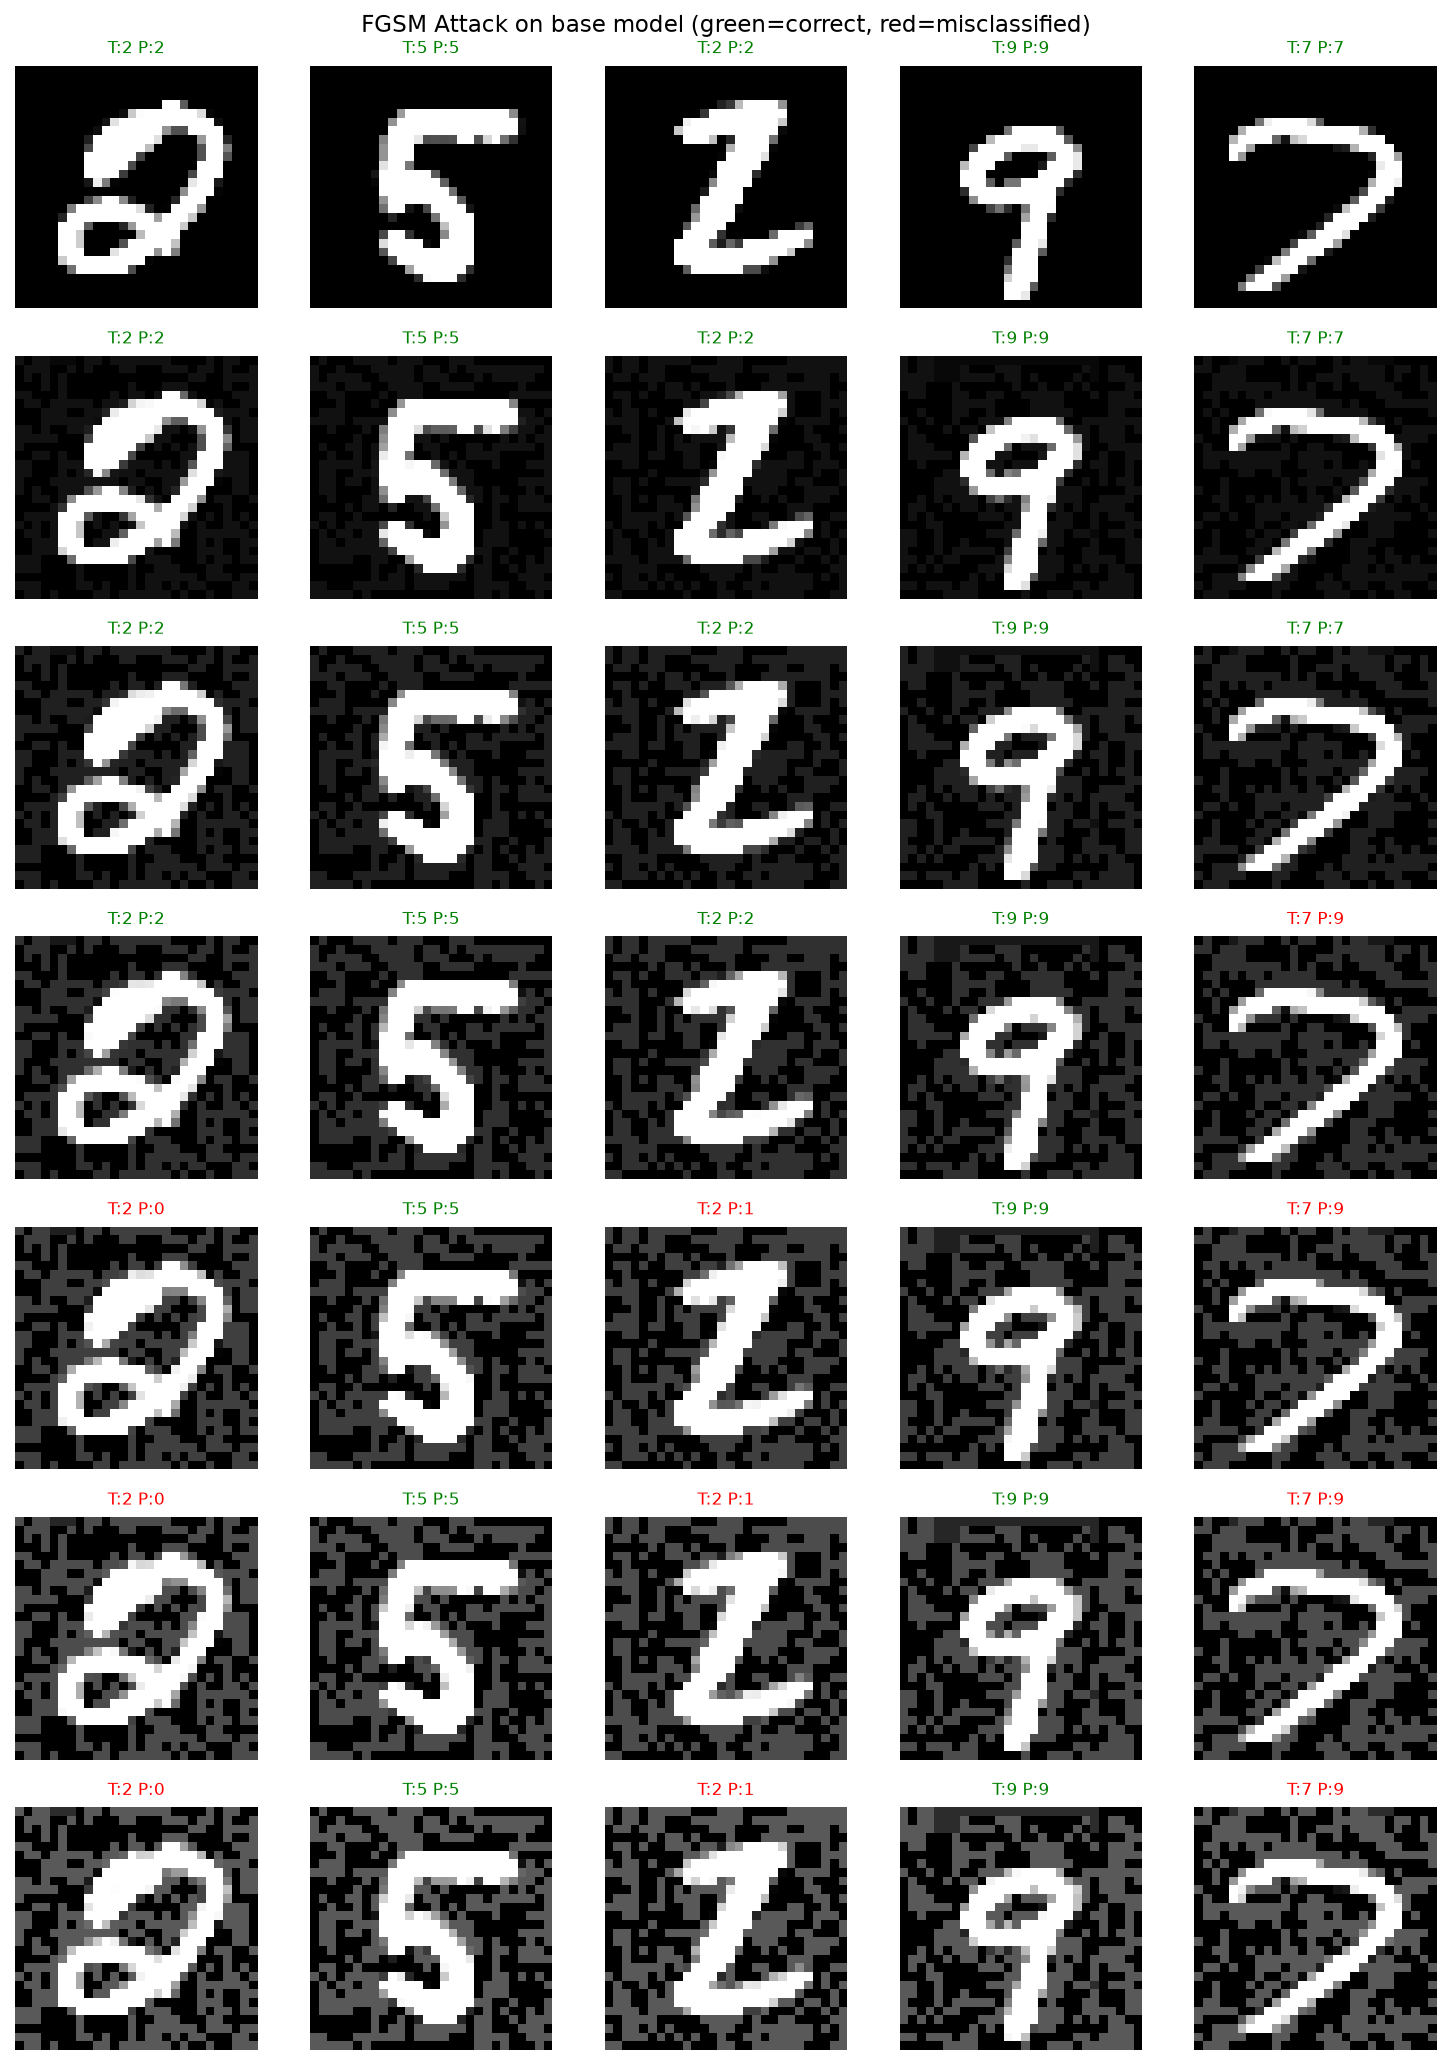
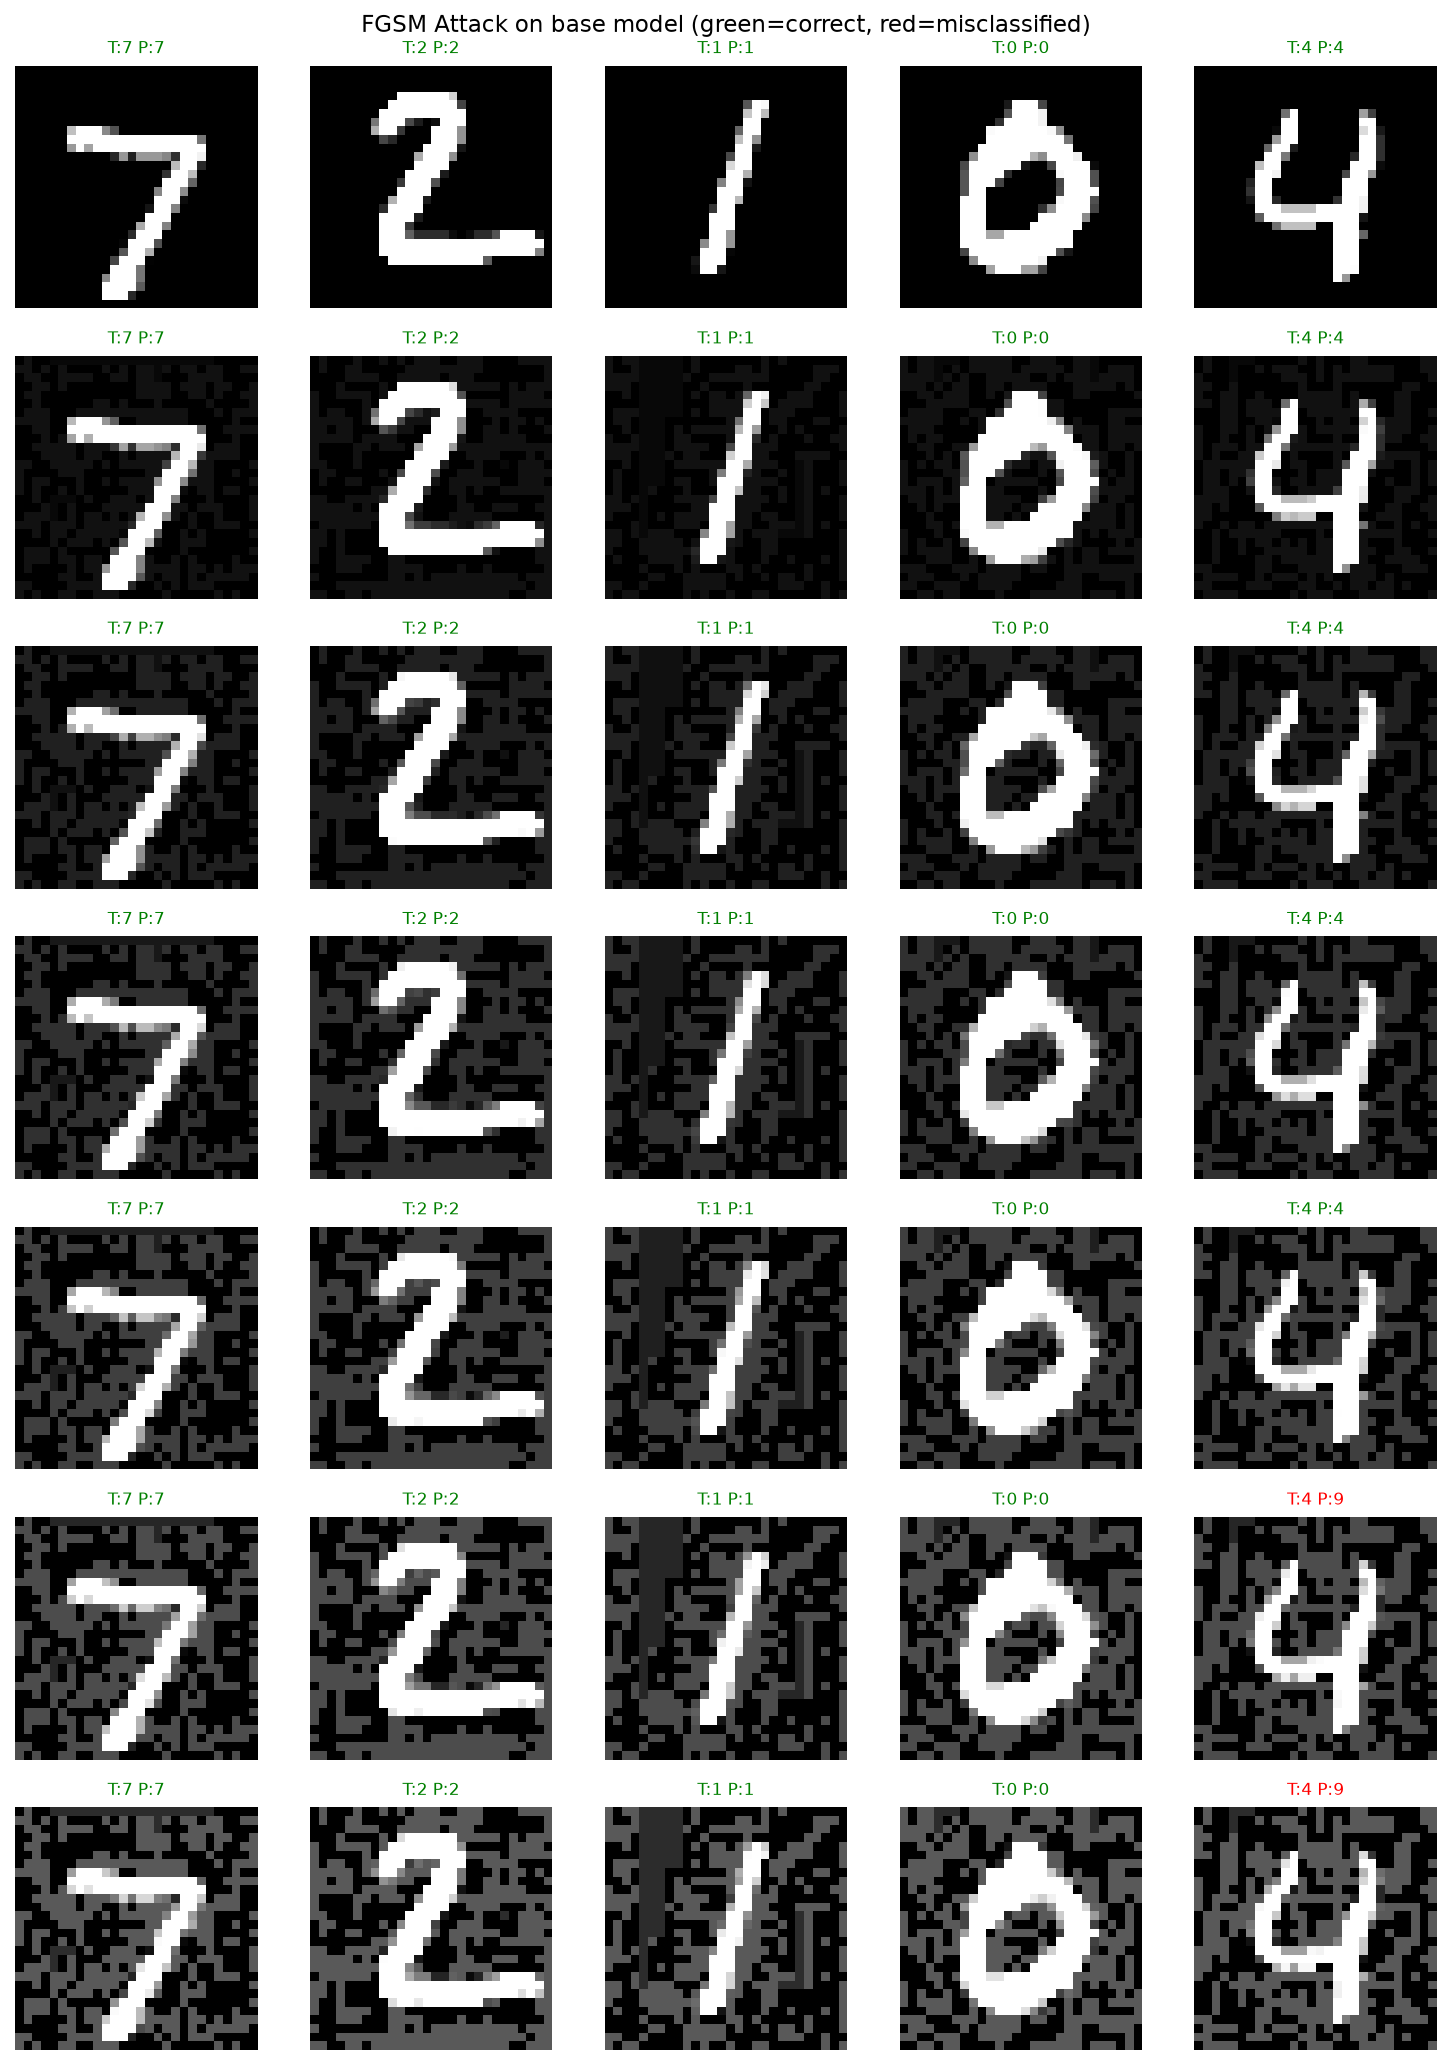
Add result of several PGD evaluations and cross-evaluations

diff --git a/results/results_log.md b/results/results_log.md
@@ -17,10 +17,9 @@
 |0.30|         63.30%|
 
 
+```bash
+python -m attacks.evaluate_attacks --attack fgsm
 ```
-python -m attacks.evaluate_fgsm
-```
-to recreate results.
 
 **Observations:**
 - Accuracy degrades gradually, but not linearly, and accelerates above epsilon=0.15
@@ -54,7 +53,7 @@ Accuracy drops below 90% at this range and perturbations become more noticeable.
 **Questions:**
 Does defense training against epsilon=0.20 generalize to other values of epsilon, especially at higher values that the model hasn't seen during training?
 
-## Defense Evaluation - Adversarial Training at epsilon = 0.20
+## Defense Evaluation - FGSM adversarial Training at epsilon = 0.20
 
 *adversarial_training.py results*
 Epoch 1: Loss: 0.0592 | Train Clean: 99.52% | Train Adv: 96.44% | Test Clean: 99.13%
@@ -64,15 +63,15 @@ Epoch 4: Loss: 0.0207 | Train Clean: 99.82% | Train Adv: 98.75% | Test Clean: 99
 Epoch 5: Loss: 0.0145 | Train Clean: 99.89% | Train Adv: 99.08% | Test Clean: 99.20%
 
 *evaluate_defense.py results*
-Epsilon      Baseline       Defended       Delta     
---------------------------------------------------
-0.0          98.68%         99.20%         +0.52      
-0.05         97.34%         98.91%         +1.57      
-0.1          94.54%         98.68%         +4.14      
-0.15         89.43%         98.25%         +8.82      
-0.2          82.18%         97.93%         +15.75     
-0.25         73.12%         97.57%         +24.45     
-0.3          63.30%         97.17%         +33.87
+|Epsilon      |Baseline       |Defended       |Delta     |
+| - | - | - | - |
+|0.0|          98.68%      |   99.20%|         +0.52      |
+|0.05|         97.34%     |    98.91% |        +1.57      |
+|0.1  |        94.54%    |     98.68%  |       +4.14     | 
+|0.15  |       89.43%   |      98.25%   |      +8.82    |  
+|0.2    |      82.18%  |       97.93%    |     +15.75  |   
+|0.25    |     73.12% |        97.57%     |    +24.45 |    
+|0.3      |    63.30%|         97.17%      |   +33.87|
 
 **Observations:**
 - Defense eliminates the majority of FGSM vulnerability across all epsilon values
@@ -119,3 +118,124 @@ Epsilon      Baseline       Defended       Delta
 - Would adversarial training against PGD outperform FGSM adversarial training?
 - What is the optimal PGD steps, is 40 steps sufficient?
 - How does it vary with different alpha values?
+
+### PGD Attack Evaluation - steps=5, 10, 20
+```bash
+python -m attacks.evaluate_attack --attack pgd5
+python -m attacks.evaluate_attack --attack pgd10
+python -m attacks.evaluate_attack --attack pgd20
+```
+
+**Results:**
+*steps=5*
+|Epsilon     |Accuracy    |
+|-|-|
+|0.00        |98.68%|
+|0.05        |97.05%|
+|0.10        |96.42%|
+|0.15        |95.99%|
+|0.20        |95.56%|
+|0.25        |94.95%|
+|0.30        |94.65%|
+
+*steps=10*
+|Epsilon     |Accuracy    |
+|-|-|
+|0.00        |98.68%|
+|0.05        |96.17%|
+|0.10        |92.80%|
+|0.15        |90.72%|
+|0.20        |89.03%|
+|0.25        |87.30%|
+|0.30        |85.51%|
+
+*steps=20*
+|Epsilon     |Accuracy    |
+|-|-|
+|0.00        |98.68%|
+|0.05        |96.05%|
+|0.10        |87.92%|
+|0.15        |78.29%|
+|0.20        |70.44%|
+|0.25        |62.94%|
+|0.30        |56.80%|
+
+*steps=40*
+|Epsilon     |Baseline      |
+|-|-|
+| 0.00       | 98.68       % |
+| 0.05       | 95.99       % |
+| 0.10       | 86.80       % |
+| 0.15       | 68.48       % |
+| 0.20       | 46.31       % |
+| 0.25       | 28.82       % |
+| 0.30       | 16.30       % |
+
+### PGD Defense Evaluation - Attack:pgd10, Defense:pdg5, 10, 20
+```bash
+python -m defenses.evaluate_defense --attack pgd10 --defense pgd5
+python -m defenses.evaluate_defense --attack pgd10 --defense pgd10
+python -m defenses.evaluate_defense --attack pgd10 --defense pgd20
+```
+
+*defense pgd5*
+|Epsilon     |Baseline      |Defended      |Delta     |
+|-|-|-|-|
+| 0.00       | 98.68%       | 98.96%       | +0.28%    |
+| 0.05       | 96.16%       | 98.15%       | +1.99%    |
+| 0.10       | 92.94%       | 97.45%       | +4.51%    |
+| 0.15       | 90.61%       | 97.18%       | +6.57%    |
+| 0.20       | 88.93%       | 96.99%       | +8.06%    |
+| 0.25       | 87.43%       | 96.59%       | +9.16%    |
+| 0.30       | 85.77%       | 96.32%       | +10.55%   |
+
+*defense pgd10*
+|Epsilon     |Baseline      |Defended      |Delta     |
+|-|-|-|-|
+| 0.00       | 98.68%       | 99.15%       | +0.47%    |
+| 0.05       | 96.18%       | 98.62%       | +2.44%    |
+| 0.10       | 92.79%       | 98.25%       | +5.46%    |
+| 0.15       | 90.72%       | 98.08%       | +7.36%    |
+| 0.20       | 88.87%       | 97.98%       | +9.11%    |
+| 0.25       | 87.18%       | 97.73%       | +10.55%   |
+| 0.30       | 85.56%       | 97.63%       | +12.07%   |
+
+*defense pgd20*
+|Epsilon     |Baseline      |Defended      |Delta     |
+|-|-|-|-|
+| 0.00       | 98.68%       | 99.13%       | +0.45%    |
+| 0.05       | 96.19%       | 98.69%       | +2.50%    |
+| 0.10       | 92.95%       | 98.40%       | +5.45%    |
+| 0.15       | 90.78%       | 98.36%       | +7.58%    |
+| 0.20       | 89.11%       | 98.29%       | +9.18%    |
+| 0.25       | 87.29%       | 98.25%       | +10.96%   |
+| 0.30       | 85.41%       | 98.08%       | +12.67%   |
+
+### Cross-evaluation - PGD defenses against FGSM and vice versa
+```bash
+python -m defenses.evaluate_defense --attack fgsm --defense pgd10
+python -m defenses.evaluate_defense --attack pgd10 --defense fgsm
+```
+**Results:**
+
+*attack: fgsm, defense: pdg10*
+|Epsilon     |Baseline      |Defended      |Delta     |
+|-|-|-|-|
+| 0.00       | 98.68%       | 99.15%       | +0.47%    |
+| 0.05       | 97.34%       | 98.73%       | +1.39%    |
+| 0.10       | 94.54%       | 98.36%       | +3.82%    |
+| 0.15       | 89.43%       | 97.72%       | +8.29%    |
+| 0.20       | 82.18%       | 96.95%       | +14.77%   |
+| 0.25       | 73.12%       | 95.70%       | +22.58%   |
+| 0.30       | 63.30%       | 94.21%       | +30.91%   |
+
+*attack:pgd10, defense: fgsm*
+|Epsilon     |Baseline      |Defended      |Delta     |
+|-|-|-|-|
+| 0.00       | 98.68%       | 99.20%       | +0.52%    |
+| 0.05       | 96.19%       | 98.61%       | +2.42%    |
+| 0.10       | 92.87%       | 98.11%       | +5.24%    |
+| 0.15       | 90.82%       | 97.71%       | +6.89%    |
+| 0.20       | 88.96%       | 97.52%       | +8.56%    |
+| 0.25       | 87.41%       | 97.34%       | +9.93%    |
+| 0.30       | 85.35%       | 97.05%       | +11.70%   |